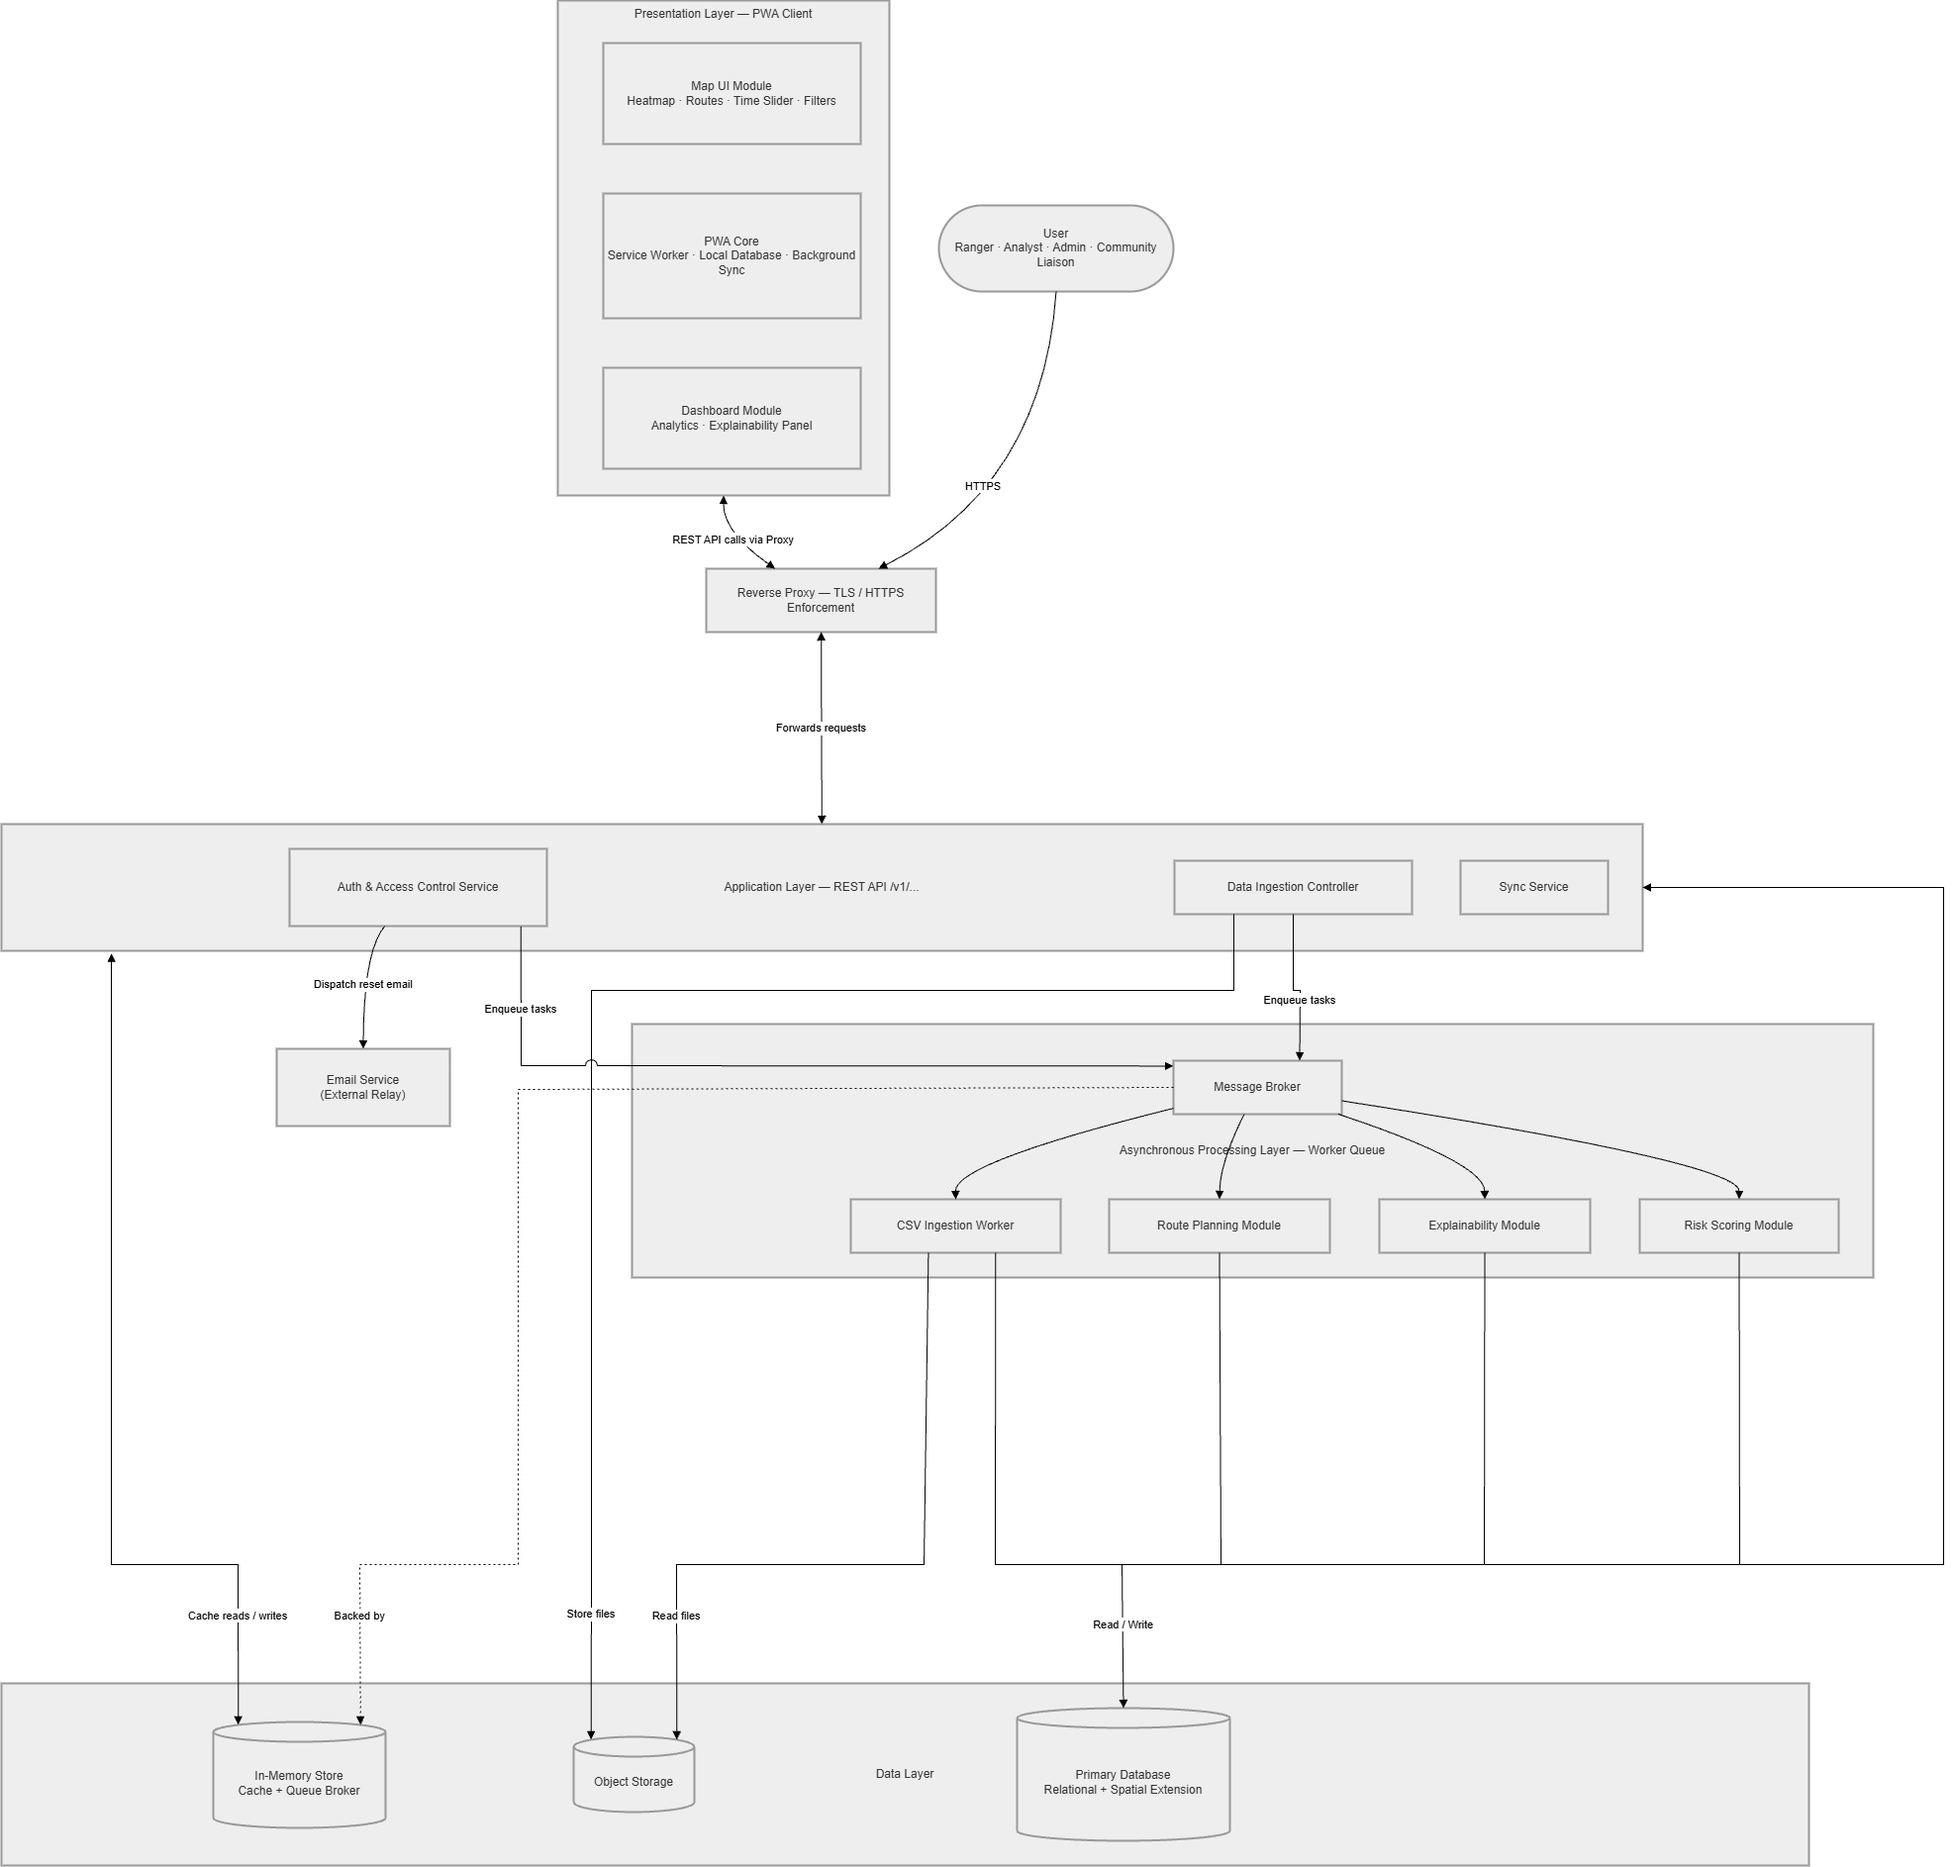
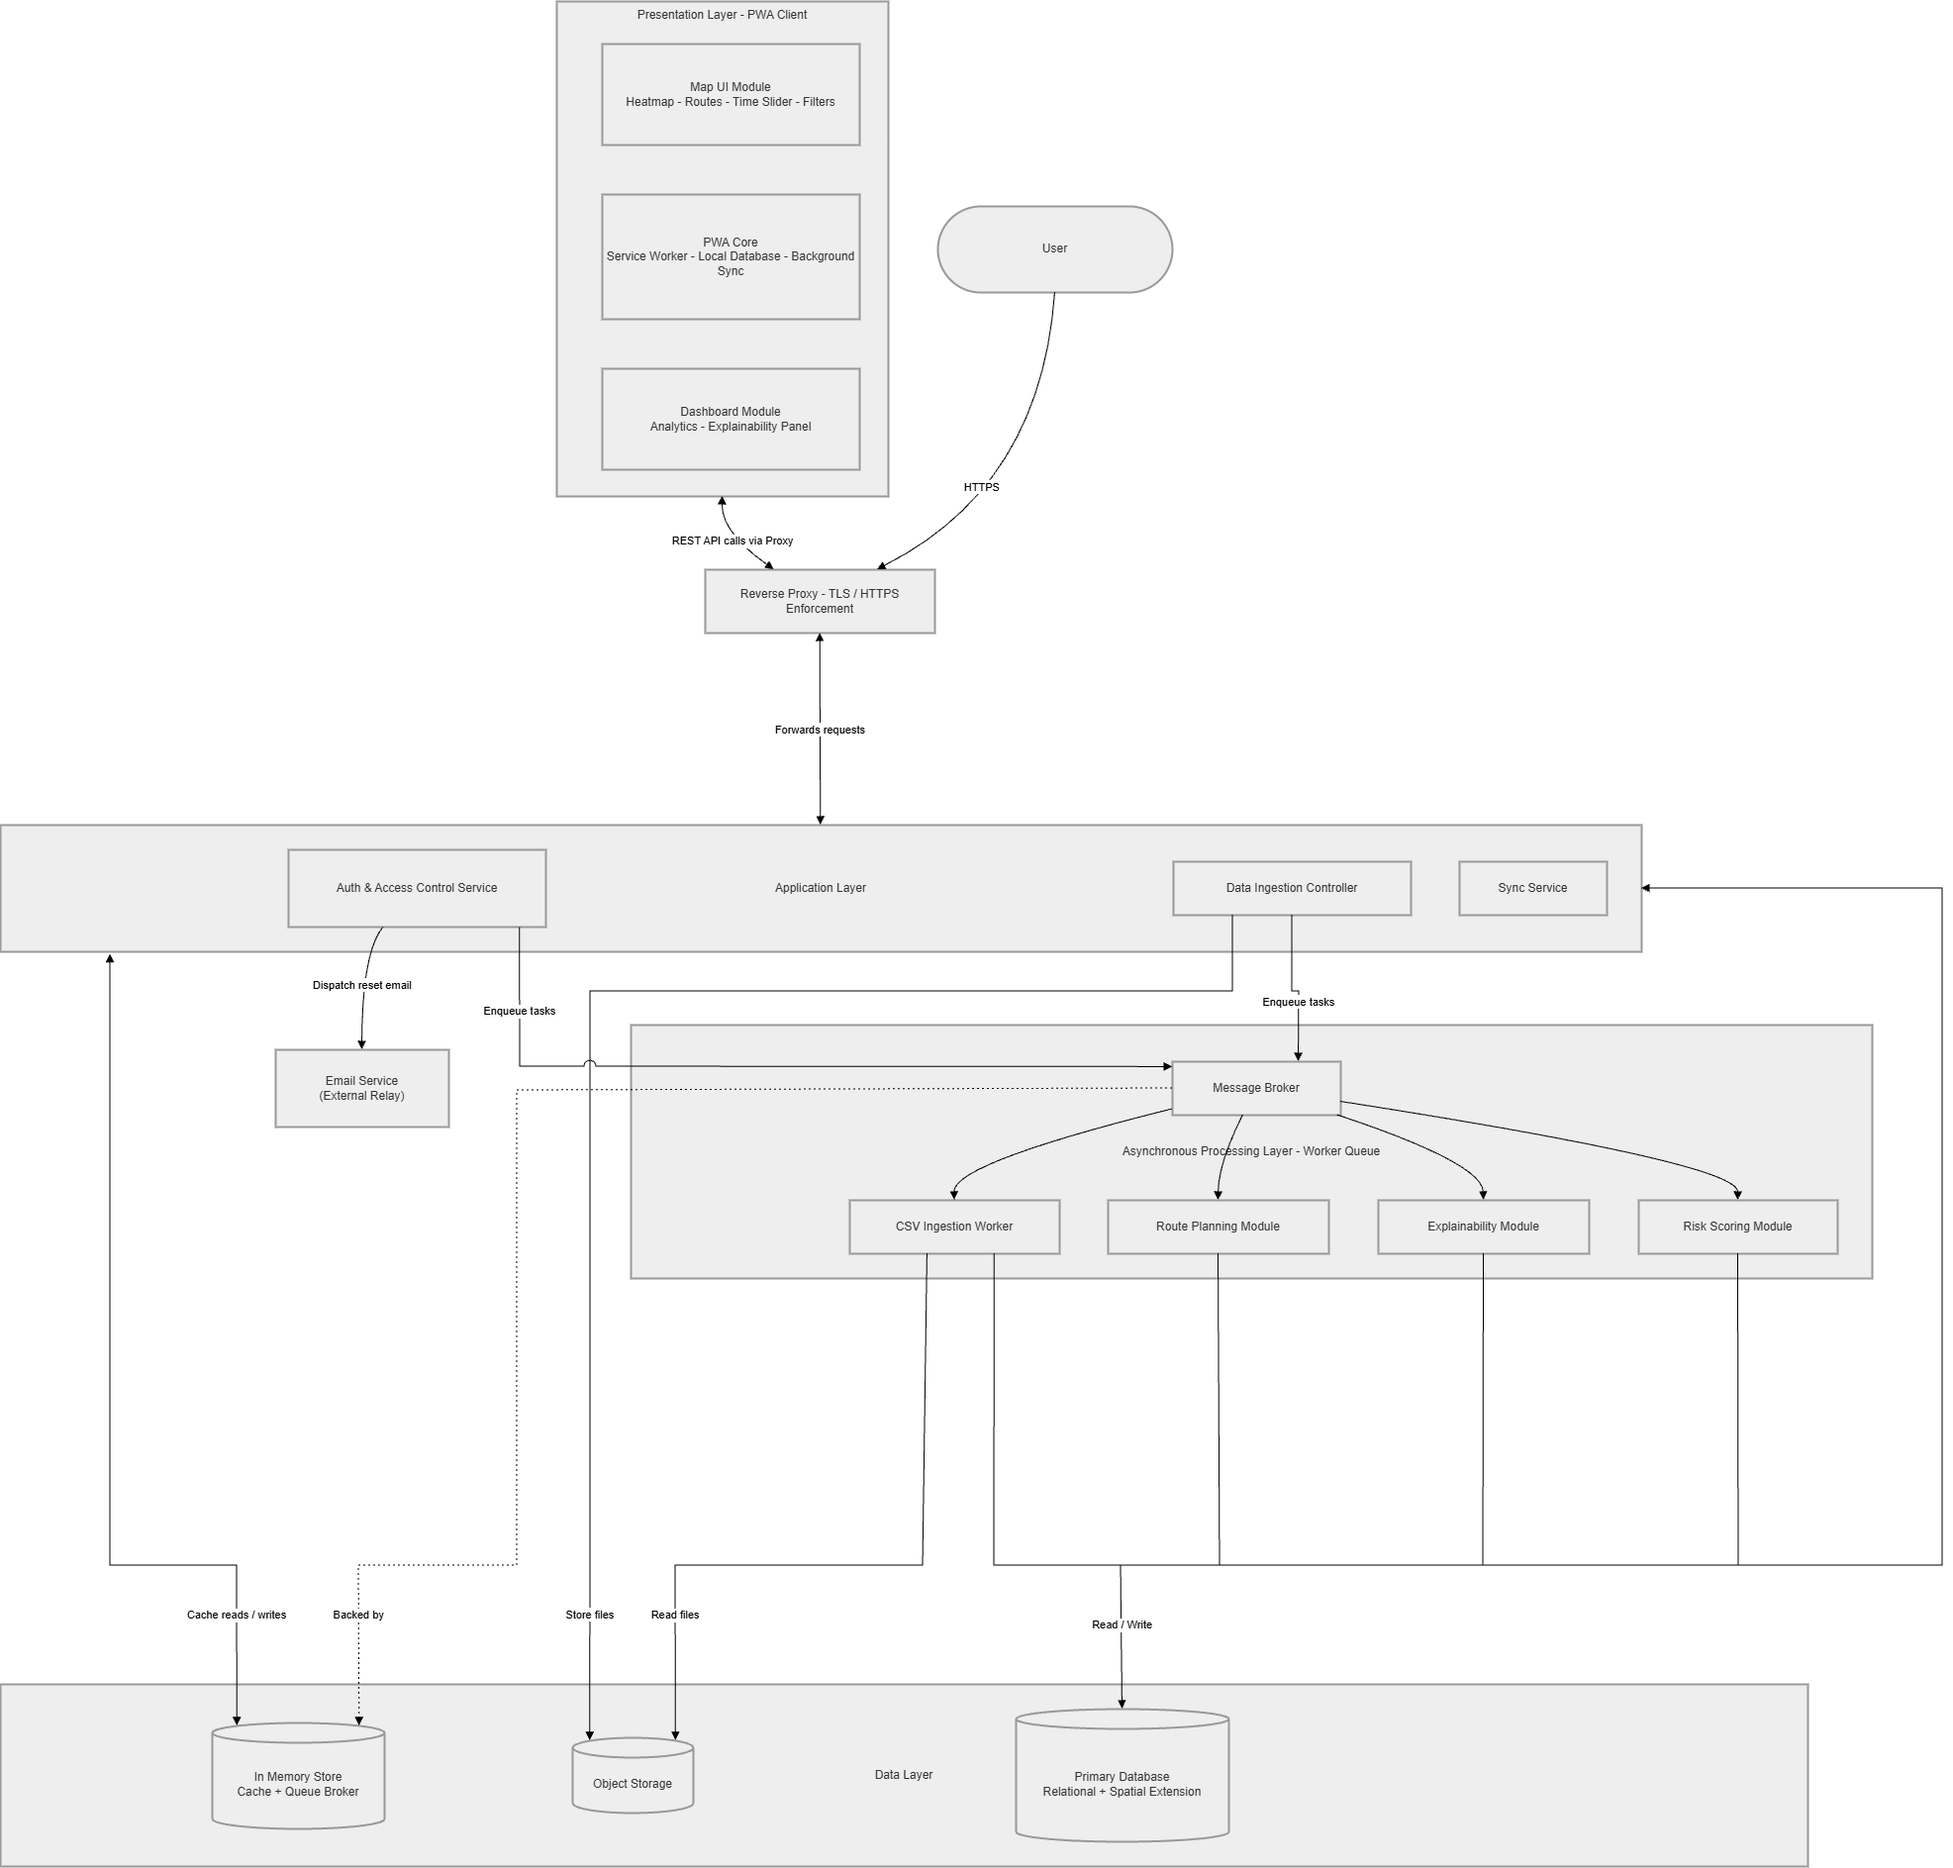
Visual updates

diff --git a/docs/design/brand_style_guide.html b/docs/design/brand_style_guide.html
@@ -351,12 +351,12 @@
       border-radius: 8px;
       font-size: 0.85rem;
       font-weight: 500;
-      border-left: 4px solid;
+      border: 1px solid;
     }
     .toast-icon { width: 18px; height: 18px; flex-shrink: 0; margin-top: 1px; }
-    .toast-success { background: #f0faf4; border-color: var(--spot-green); color: #065f2e; }
-    .toast-warning { background: #fffde6; border-color: var(--spot-yellow); color: #7a6200; }
-    .toast-error   { background: #fff0f0; border-color: var(--spot-red);   color: #7a0000; }
+    .toast-success { background: #f0faf4; border-color: #a8dbbf; color: #065f2e; }
+    .toast-warning { background: #fffde6; border-color: #e8d000; color: #7a6200; }
+    .toast-error   { background: #fff0f0; border-color: #f0b0b0; color: #7a0000; }
     .toast-title { font-weight: 600; }
     .toast-body  { font-weight: 400; margin-top: 2px; font-size: 0.8rem; }
 

diff --git a/docs/architecture/Domain_Model.md b/docs/architecture/Domain_Model.md
@@ -1,10 +1,9 @@
 ```mermaid
 classDiagram
 
-    %% ── USER HIERARCHY ──────────────────────────────────────────────────────
+    %% ── USER ────────────────────────────────────────────────────────────────
 
     class User {
-        <<abstract>>
         +UUID id
         +String username
         +String email
@@ -15,45 +14,17 @@ classDiagram
         +DateTime created_at
     }
 
-    class Ranger {
-    }
+    %% ── DOMAIN SERVICES ─────────────────────────────────────────────────────
 
-    class Analyst {
-    }
-
-    class CommunityLiaison {
-    }
-
-    class Admin {
-    }
-
-    User <|-- Ranger
-    User <|-- Analyst
-    User <|-- CommunityLiaison
-    User <|-- Admin
-
-    %% ── SYSTEM SERVICES ─────────────────────────────────────────────────────
-
-    class DataIngestionController {
-    }
-
-    class AIRiskEngine {
+    class RiskEngine {
+        <<service>>
     }
 
     class PatrolPlanner {
-    }
-
-    class SyncService {
-    }
-
-    class Dashboard {
-        +Float patrol_coverage
-        +String outcomes
-        +String trends
+        <<service>>
     }
 
     %% ── GEOSPATIAL EVENT HIERARCHY ───────────────────────────────────────────
-    %% Covers CSV-imported historical data; also created by FieldReports and TipOffs
 
     class GeospatialEvent {
         <<abstract>>
@@ -78,19 +49,11 @@ classDiagram
         +Float distance_covered
     }
 
-    class TipOff {
-        +UUID id
-        +Enum report_type
-        +String description
-        +DateTime occurred_at
-        +Geography~Point~ location
-    }
-
     GeospatialEvent <|-- Incident
     GeospatialEvent <|-- Sighting
     GeospatialEvent <|-- PatrolTrack
 
-    %% ── FIELD REPORT (PWA offline capture) ──────────────────────────────────
+    %% ── FIELD REPORT ────────────────────────────────────────────────────────
 
     class FieldReport {
         +UUID id
@@ -104,6 +67,16 @@ classDiagram
         +DateTime deleted_at
     }
 
+    %% ── TIP-OFF ─────────────────────────────────────────────────────────────
+
+    class TipOff {
+        +UUID id
+        +Enum report_type
+        +String description
+        +DateTime occurred_at
+        +Geography~Point~ location
+    }
+
     %% ── MEDIA ───────────────────────────────────────────────────────────────
 
     class Photo {
@@ -112,17 +85,6 @@ classDiagram
         +DateTime uploaded_at
     }
 
-    %% ── DATA INGESTION ──────────────────────────────────────────────────────
-
-    class UploadJob {
-        +UUID id
-        +Enum data_type
-        +Enum status
-        +Int rows_imported
-        +Int rows_failed
-        +DateTime queued_at
-        +DateTime completed_at
-    }
 
     %% ── RISK ENGINE ─────────────────────────────────────────────────────────
 
@@ -147,16 +109,9 @@ classDiagram
 
     %% ── PATROL PLANNING ─────────────────────────────────────────────────────
 
-    class ResourceConstraint {
-        +Geography~Point~ start_point
-        +Float max_time
-        +Float max_fuel
-    }
-
     class PatrolRoute {
         +UUID id
         +UUID request_id
-        +UUID requested_by
         +Geography~Point~ start_point
         +Float max_time
         +Float max_fuel
@@ -181,45 +136,29 @@ classDiagram
     %% ── RELATIONSHIPS ───────────────────────────────────────────────────────
 
     %% User interactions
-    Analyst --> DataIngestionController : uses
-    Ranger "1" --> "*" FieldReport : captures
-    Ranger --> PatrolPlanner : requests route
-    CommunityLiaison "1" --> "*" TipOff : submits
-    Analyst --> Dashboard : views
-    Admin --> Dashboard : views
-    Admin "1" --> "*" AuditLog : recorded in
+    User "1" --> "*" FieldReport : captures
+    User "1" --> "*" TipOff : submits
+    User "1" --> "*" PatrolRoute : requests
+    User "1" --> "*" AuditLog : actor
 
-    %% Data ingestion pipeline
-    DataIngestionController ..> GeospatialEvent : validates and uploads
-    DataIngestionController --> UploadJob : creates
+    %% FieldReport and TipOff produce geospatial events
+    FieldReport "1" --> "0..1" Incident : creates
+    FieldReport "1" --> "0..1" Sighting : creates
+    TipOff "1" --> "0..1" Incident : creates
+    TipOff "1" --> "0..1" Sighting : creates
 
-    %% AI risk engine
-    AIRiskEngine ..> GeospatialEvent : consumes
-    AIRiskEngine --> RiskHeatmap : generates
+    %% Risk engine domain service
+    RiskEngine ..> GeospatialEvent : processes
+    RiskEngine --> RiskHeatmap : produces
 
-    %% Patrol planning
-    PatrolPlanner ..> RiskHeatmap : consumes
-    PatrolPlanner ..> ResourceConstraint : consumes
+    %% Patrol planner domain service
+    PatrolPlanner ..> RiskHeatmap : uses
     PatrolPlanner --> PatrolRoute : generates
 
-    %% Offline sync
-    SyncService ..> FieldReport : syncs and resolves conflicts
-
-    %% FieldReport creates a geospatial event (incident xor sighting based on report_type)
-    FieldReport "1" --> "0..1" Incident : creates (if incident)
-    FieldReport "1" --> "0..1" Sighting : creates (if sighting)
-
-    %% TipOff creates a geospatial event (incident xor sighting based on report_type)
-    TipOff "1" --> "0..1" Incident : creates (if incident)
-    TipOff "1" --> "0..1" Sighting : creates (if sighting)
-
     %% Risk heatmap structure
-    RiskHeatmap "1" *-- "*" GridCell : divided into
-    GridCell "1" *-- "*" ExplainabilityMetric : clarified by
+    RiskHeatmap "1" *-- "*" GridCell : contains
+    GridCell "1" *-- "*" ExplainabilityMetric : clarifies
 
-    %% Photo evidence linked to geospatial events
-    GeospatialEvent "1" --> "*" Photo : optionally includes
-
-    %% Field report linked to patrol route
-    FieldReport "*" --> "0..1" PatrolRoute : linked to
+    %% Photo evidence
+    GeospatialEvent "1" --> "*" Photo : includes
 ```

diff --git a/docs/architecture/Architecture.md b/docs/architecture/Architecture.md
@@ -107,18 +107,18 @@ Password recovery requires the system to dispatch a time-limited reset link to t
 
 ```mermaid
 flowchart TD
-    User(["User\nRanger · Analyst · Admin · Community Liaison"])
+    User
 
     subgraph Proxy["Reverse Proxy - TLS / HTTPS Enforcement"]
     end
 
     subgraph PL["Presentation Layer - PWA Client"]
-        MapUI["Map UI Module\nHeatmap · Routes · Time Slider · Filters"]
-        Core["PWA Core\nService Worker · Local Database · Background Sync"]
-        Dash["Dashboard Module\nAnalytics · Explainability Panel"]
+        MapUI["Map UI Module\nHeatmap - Routes - Time Slider - Filters"]
+        Core["PWA Core\nService Worker - Local Database - Background Sync"]
+        Dash["Dashboard Module\nAnalytics - Explainability Panel"]
     end
 
-    subgraph AL["Application Layer - REST API  /v1/..."]
+    subgraph AL["Application Layer]
         Auth["Auth & Access Control Service"]
         Ingest["Data Ingestion Controller"]
         Sync["Sync Service"]
@@ -135,7 +135,7 @@ flowchart TD
     subgraph DL["Data Layer"]
         DB[("Primary Database\nRelational + Spatial Extension")]
         Obj[("Object Storage")]
-        Mem[("In-Memory Store\nCache + Queue Broker")]
+        Mem[("In Memory Store\nCache + Queue Broker")]
     end
 
     Email["Email Service\n(External Relay)"]
